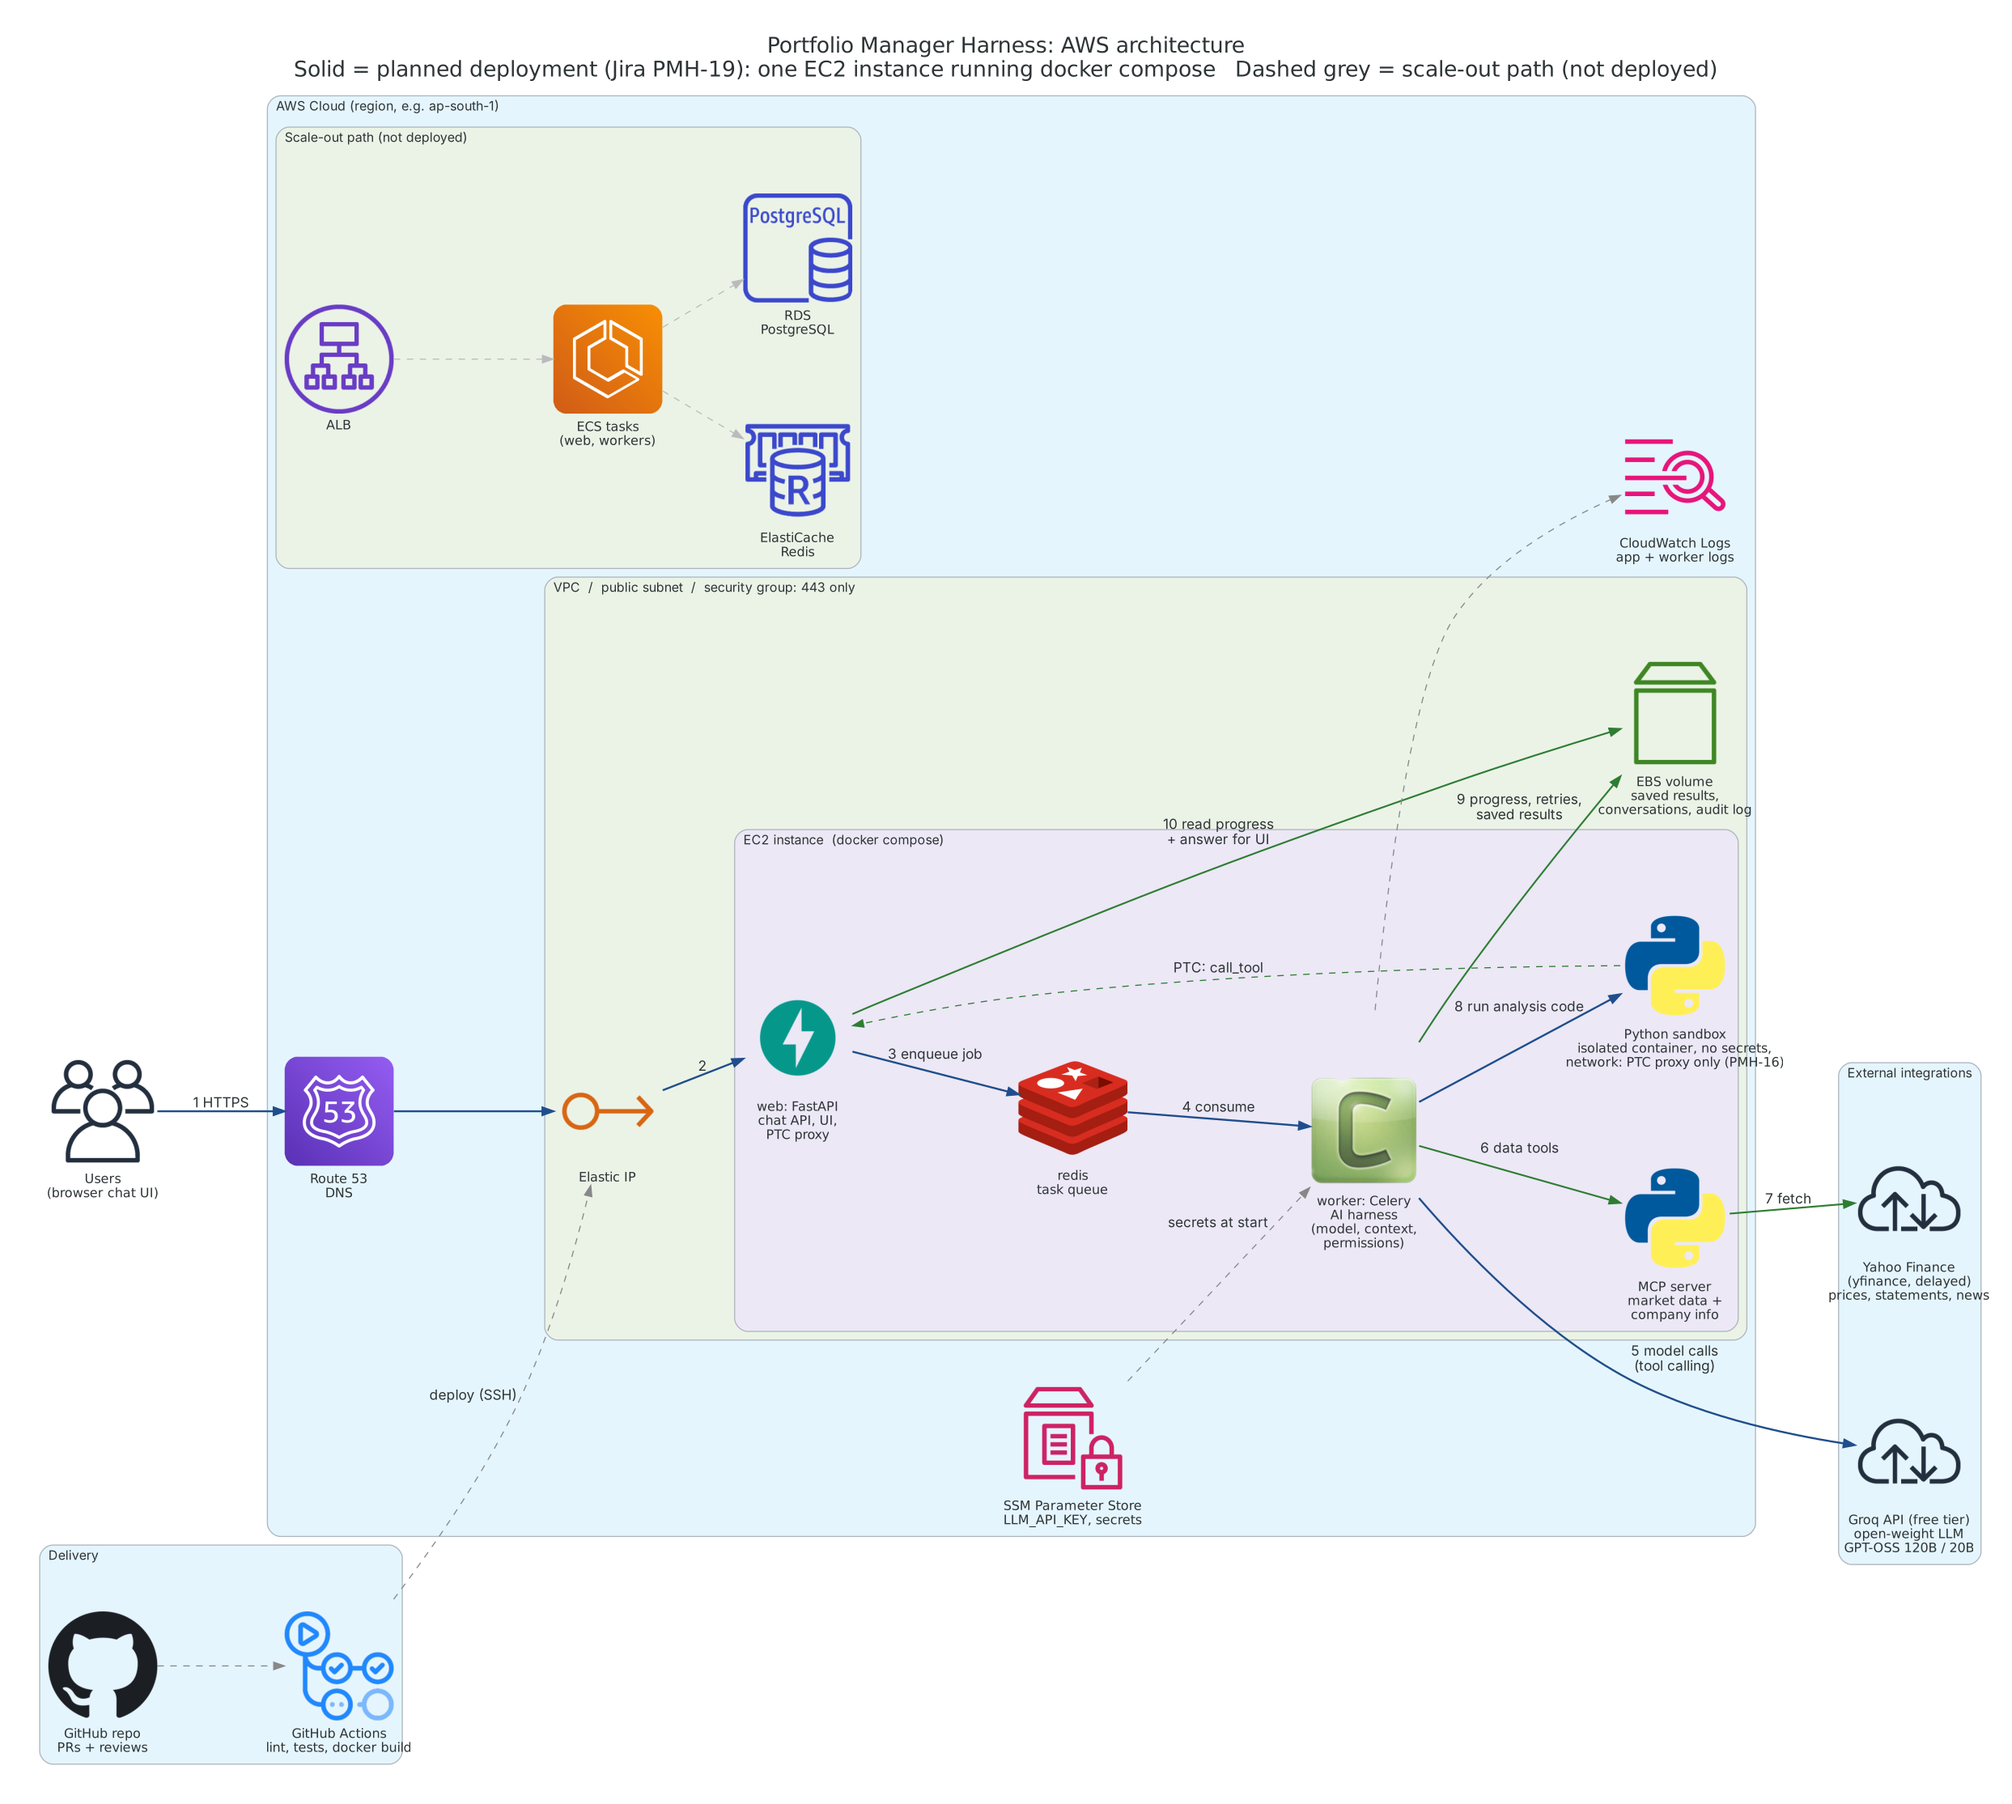
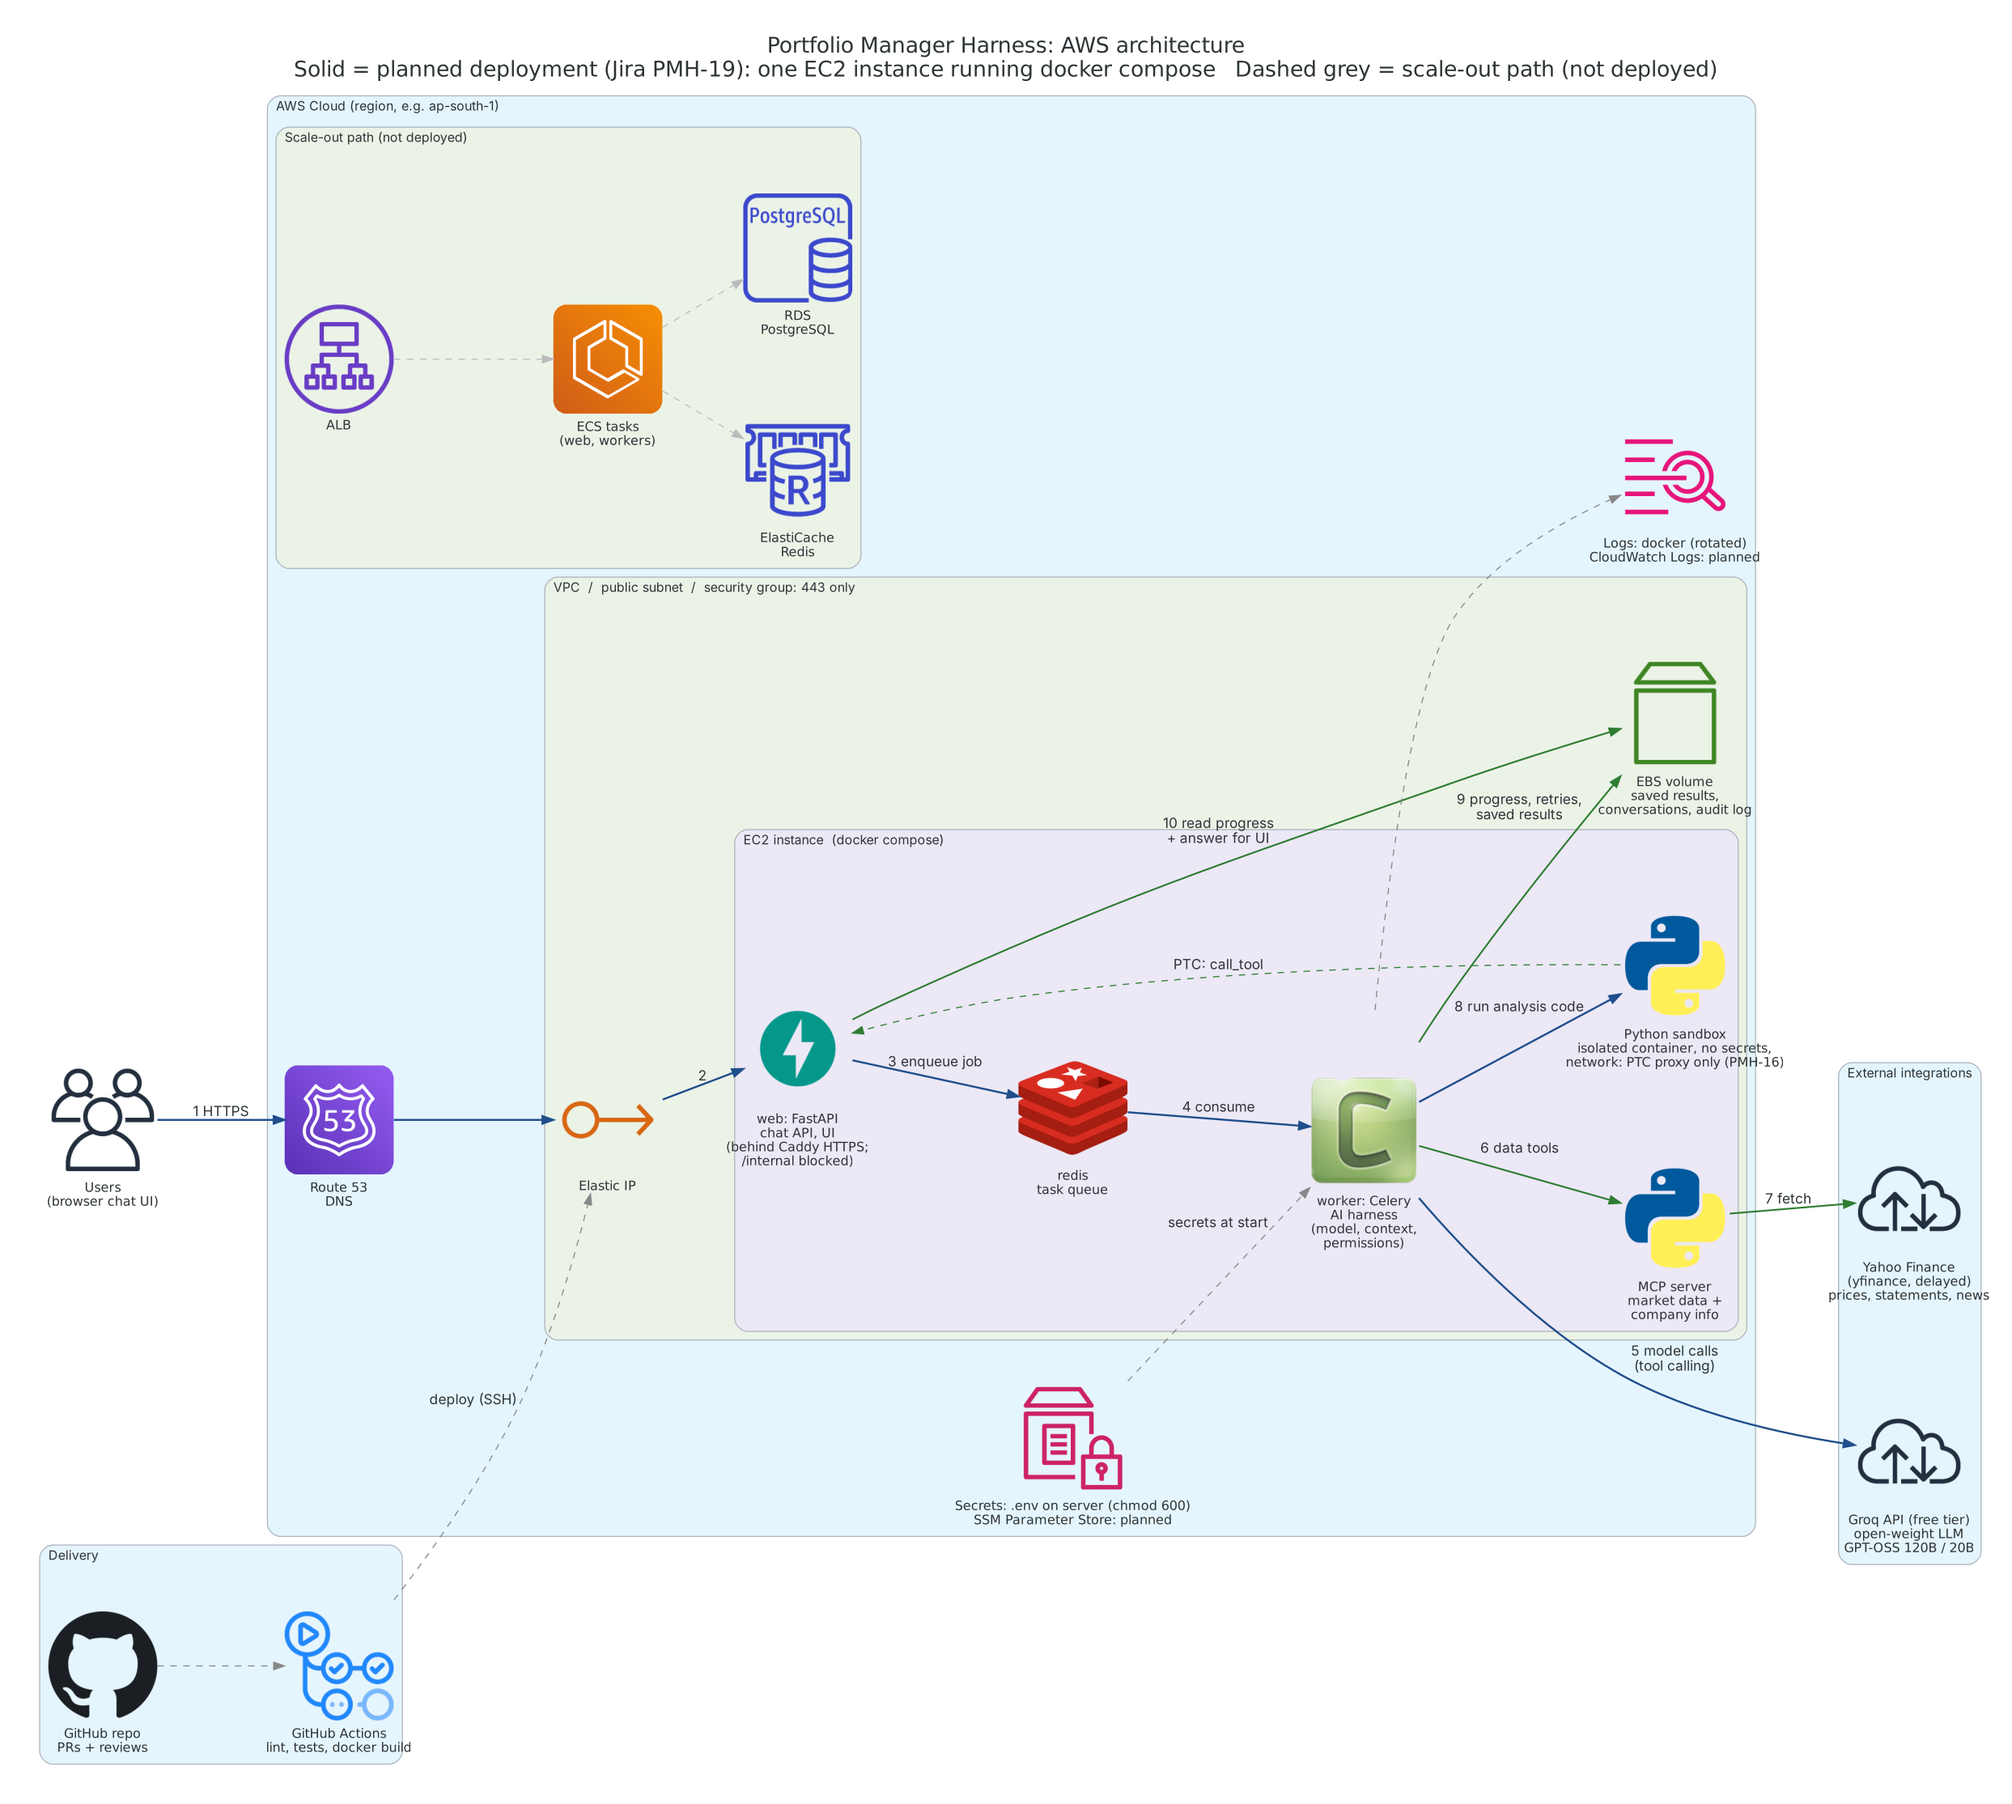
PMH-19 production deployment: Caddy HTTPS, compose, setup scripts, deploy workflow

diff --git a/docs/architecture/aws_architecture.py b/docs/architecture/aws_architecture.py
@@ -41,13 +41,13 @@ with Diagram("", filename="aws_architecture", show=False, direction="LR",
 
     with Cluster("AWS Cloud (region, e.g. ap-south-1)"):
         dns = Route53("Route 53\nDNS")
-        params = SystemsManagerParameterStore("SSM Parameter Store\nLLM_API_KEY, secrets")
-        logs = CloudwatchLogs("CloudWatch Logs\napp + worker logs")
+        params = SystemsManagerParameterStore("Secrets: .env on server (chmod 600)\nSSM Parameter Store: planned")
+        logs = CloudwatchLogs("Logs: docker (rotated)\nCloudWatch Logs: planned")
 
         with Cluster("VPC  /  public subnet  /  security group: 443 only"):
             eip = EC2ElasticIpAddress("Elastic IP")
             with Cluster("EC2 instance  (docker compose)"):
-                api = Fastapi("web: FastAPI\nchat API, UI,\nPTC proxy")
+                api = Fastapi("web: FastAPI\nchat API, UI\n(behind Caddy HTTPS;\n/internal blocked)")
                 queue = Redis("redis\ntask queue")
                 worker = Celery("worker: Celery\nAI harness\n(model, context,\npermissions)")
                 mcp = Python("MCP server\nmarket data +\ncompany info")

diff --git a/docs/DEPLOY.md b/docs/DEPLOY.md
@@ -1,0 +1,77 @@
+# Deploying to AWS EC2 (Jira PMH-19)
+
+One EC2 instance runs the whole stack with docker compose: **Caddy** (HTTPS), **web** (FastAPI),
+**worker** (Celery + AI harness + sandbox) and **Redis**. Only ports 80/443 are public; the internal
+tool proxy (`/internal/*`) is blocked at Caddy and only reachable inside the server.
+
+Cost: new AWS accounts on the Free plan get Free Tier credits (check aws.amazon.com/free for the
+current amount). EC2, EBS and the Elastic IP are paid from those credits. **Stop or terminate the
+instance when you no longer need it**, and set a budget alert (step 1).
+
+## 1. AWS account and budget alert
+1. Create an account at aws.amazon.com and choose the **Free plan**.
+2. Pick region **Asia Pacific (Mumbai) ap-south-1** (top right), closest to Pakistan.
+3. Billing and Cost Management → **Budgets** → Create budget → "Zero spend" or a small monthly
+   amount, with an email alert.
+
+## 2. Launch the instance
+EC2 → **Launch instance**:
+| Setting | Value |
+|---|---|
+| Name | `pmh-server` |
+| Image | **Ubuntu Server 24.04 LTS** |
+| Instance type | **t3.small** (2 GB RAM). t3.micro (1 GB) may run out of memory |
+| Key pair | Create new → `pmh-key` → **.pem** → download and keep it safe |
+| Network | Allow **SSH from My IP**, allow **HTTP** and **HTTPS from anywhere** |
+| Storage | 20 GB gp3 |
+
+## 3. Give it a fixed address
+EC2 → **Elastic IPs** → Allocate → Associate with `pmh-server`. Note the IP, e.g. `13.201.5.7`.
+Your free HTTPS hostname is the IP with dashes plus `.sslip.io`: `13-201-5-7.sslip.io`.
+
+## 4. Set up the server
+From PowerShell on your laptop (folder containing `pmh-key.pem`):
+```powershell
+ssh -i pmh-key.pem ubuntu@13.201.5.7
+```
+On the server (the repo is private, so `git clone` asks for your GitHub username and a
+**personal access token** with read access to this repo as the password):
+```bash
+git clone https://github.com/ZH-ITech/Portfolio-Manager-Harness.git ~/pmh
+bash ~/pmh/deploy/setup_ec2.sh https://github.com/ZH-ITech/Portfolio-Manager-Harness.git
+```
+Then edit the two settings files it tells you about:
+```bash
+nano ~/pmh/.env          # LLM_API_KEY = a NEW Groq key just for the server; PTC_SHARED_SECRET = long random text
+nano ~/pmh/deploy/.env   # DOMAIN=13-201-5-7.sslip.io
+newgrp docker
+cd ~/pmh/deploy && docker compose -f docker-compose.prod.yml up -d --build
+```
+The first build takes a few minutes. Open **https://13-201-5-7.sslip.io**. That is the live link.
+
+Useful commands on the server:
+```bash
+cd ~/pmh/deploy
+docker compose -f docker-compose.prod.yml ps          # status
+docker compose -f docker-compose.prod.yml logs -f web worker   # logs
+bash ~/pmh/deploy/redeploy.sh                          # pull main and restart
+```
+
+## 5. Automatic redeploys (optional)
+GitHub repo → Settings → Secrets and variables → Actions → New repository secret:
+| Secret | Value |
+|---|---|
+| `EC2_HOST` | Elastic IP, e.g. `13.201.5.7` |
+| `EC2_USER` | `ubuntu` |
+| `EC2_SSH_KEY` | full contents of `pmh-key.pem` |
+| `PUBLIC_HOST` | `13-201-5-7.sslip.io` |
+
+After this, every merge to `main` that passes CI redeploys the server (workflow `Deploy`).
+For `git pull` on the server to work non-interactively, add a read-only **deploy key**
+(repo → Settings → Deploy keys) or store your token with `git config credential.helper store`.
+
+## Security notes
+- Secrets live only in `~/pmh/.env` on the server (permissions 600), never in Git.
+- Use separate Groq keys for your laptop and the server so either can be revoked alone.
+- The sandbox enforces CPU/memory/time limits inside the worker container. Restricting its
+  network to the PTC proxy only is Jira PMH-16.

diff --git a/README.md b/README.md
@@ -75,8 +75,9 @@ loop (self-debugging, blocked tools, usage limits), conversation context, the ch
 failures, rate limit), chart endpoints, outage handling, sandbox limits and PTC tokens.
 
 ## Deploy
-One EC2 instance (or any VM) running `docker compose`. Set the model provider keys, `PTC_SHARED_SECRET`
-and `CELERY_EAGER=false` as secrets on the host, never in Git. See Jira PMH-19.
+One AWS EC2 instance running `deploy/docker-compose.prod.yml`: Caddy (automatic HTTPS) in front of
+FastAPI, a Celery worker and Redis. Step-by-step guide: [docs/DEPLOY.md](docs/DEPLOY.md).
+Merges to `main` that pass CI redeploy automatically once the server secrets are set.
 
 ## Contributing
 See [CONTRIBUTING.md](CONTRIBUTING.md). Branch per Jira issue (`PMH-14-...`), key in every commit,
